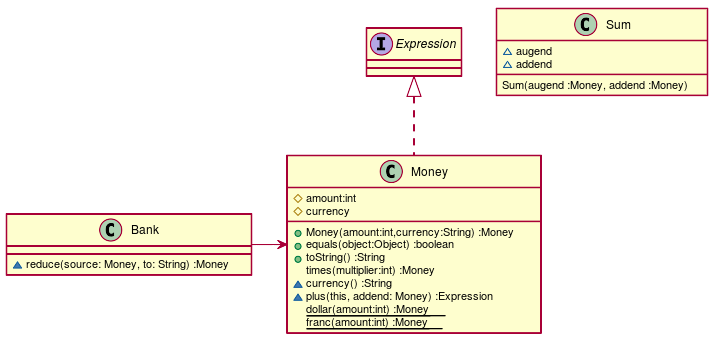
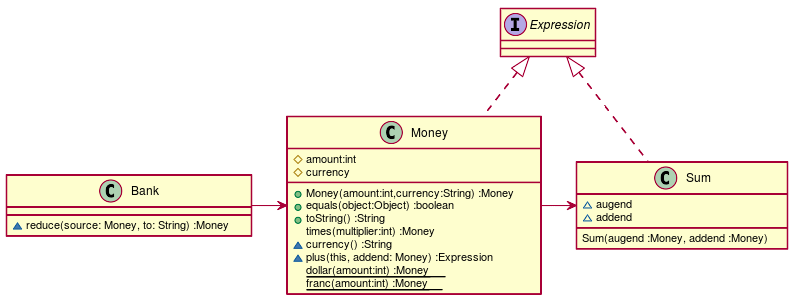
第１３章 実装を導くテスト Step6

diff --git a/src/main/java/tdd/money/Sum.java b/src/main/java/tdd/money/Sum.java
@@ -1,6 +1,6 @@
 package tdd.money;
 
-class Sum {
+class Sum implements Expression {
     Money augend;
     Money addend;
     Sum(Money augend, Money addend) {

diff --git a/docs/TDD.md b/docs/TDD.md
@@ -45,11 +45,11 @@
 ### クラス図
   
 
-![](./assets/0285dfa24ee25b18e00bb369b57da6820.png?0.4077089104474374)  
+![](./assets/0285dfa24ee25b18e00bb369b57da6820.png?0.5656340345015531)  
 ### シーケンス図
   
 
-![](./assets/0285dfa24ee25b18e00bb369b57da6821.png?0.7656317268778063)  
+![](./assets/0285dfa24ee25b18e00bb369b57da6821.png?0.11461432958551221)  
   
 ## コード
   
@@ -162,7 +162,7 @@ class Bank {
 ```java
 package tdd.money;
   
-class Sum {
+class Sum implements Expression {
     Money augend;
     Money addend;
     Sum(Money augend, Money addend) {

diff --git a/docs/src/TDD.md b/docs/src/TDD.md
@@ -68,6 +68,8 @@ class Sum {
   Sum(augend :Money, addend :Money)
 }
 Expression <|.. Money
+Expression <|.. Sum
+Money -> Sum
 Bank -> Money
 ```
 ### シーケンス図
